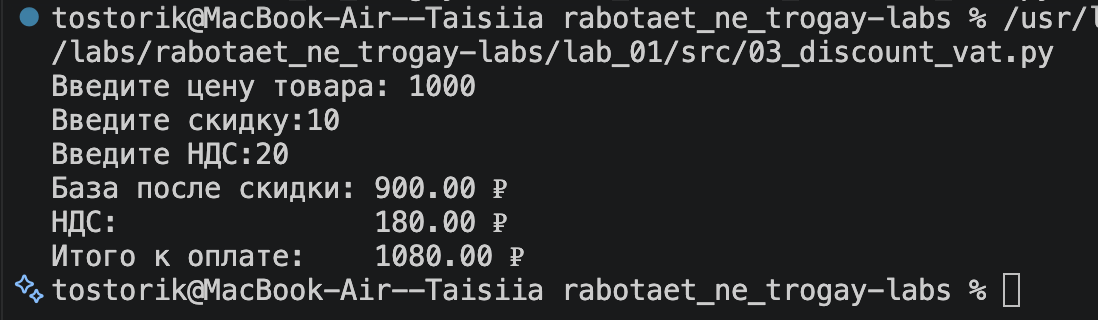
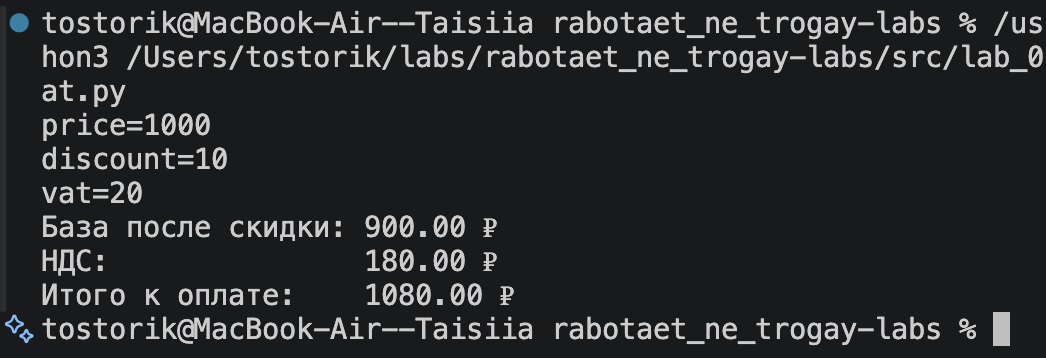
ready to check

Changed region(s): [[0.0, 0.0, 1.0, 0.9688]]

diff --git a/src/lib/functions_02.py b/src/lib/functions_02.py
@@ -1,0 +1,83 @@
+def min_max(nums: list[float | int]) -> tuple[float | int, float | int]:
+    if not (len(nums)):
+        raise ValueError ('пустая строка')
+    else:
+        mx = nums[0]
+        mn = nums[0]
+        for n in nums:
+            if n > mx:
+                mx = n
+            if n < mn:
+                mn = n
+        return mn, mx
+    
+    
+def unique_sorted(nums: list[float | int]) -> list[float | int]:
+    ans = []
+    while len(nums) > 0:
+        mn = nums[0]
+        for n in nums:
+            if n < mn and n not in ans:
+                mn = n
+        ans.append(mn)
+        while mn in nums:
+            nums.remove(mn)
+    return ans
+
+
+def flatten(mat: list[list | tuple]) -> list:
+    if not len(mat):
+        raise ValueError ('пустая строка')
+    else:
+        pr = []
+        for row in mat:
+            if type(row) != list and type(row) != tuple:
+                raise TypeError ('строка не является строкой строк матрицы')
+            pr.extend(row)
+        return pr
+    
+
+def transpose(mat: list[list[float | int]]) -> list[list]:
+    if mat and any(len(row) != len(mat[0]) for row in mat):
+        raise ValueError("рваная матрица")
+    return [list(col) for col in zip(*mat)]
+
+def row_sums(mat: list[list[float | int]]) -> list[float]:
+    if mat and any(len(row) != len(mat[0]) for row in mat):
+        raise ValueError("рваная матрица")
+    return [sum(row) for row in mat]
+
+def col_sums(mat: list[list[float | int]]) -> list[float]:
+    if mat and any(len(row) != len(mat[0]) for row in mat):
+        raise ValueError("рваная матрица")
+    return [sum(col) for col in zip(*mat)]
+
+def format_record(rec: tuple[str, str, float]) -> str:
+    if not isinstance(rec, tuple) or len(rec) != 3:
+        raise TypeError("запись должна быть кортежем (fio, group, gpa)")
+
+    fio, group, gpa = rec
+
+    if not isinstance(fio, str):
+        raise TypeError("fio должно быть строкой")
+    if not isinstance(group, str):
+        raise TypeError("group должна быть строкой")
+    if isinstance(gpa, bool) or not isinstance(gpa, (int, float)):
+        raise TypeError("gpa должен быть числом (int или float)")
+
+    parts = fio.split()
+    if not parts:
+        raise ValueError("пустое ФИО")
+    if len(parts) not in (2, 3):
+        raise ValueError("ФИО должно состоять из 2 или 3 слов")
+    if any(not part.isalpha() for part in parts):
+        raise ValueError("ФИО должно состоять только из букв")
+
+    group = " ".join(group.split())
+    if not group:
+        raise ValueError("пустая группа")
+
+    surname = parts[0].title()
+    initials = "".join(name[0].upper() + "." for name in parts[1:])
+
+    return f"{surname} {initials}, гр. {group}, GPA {gpa:.2f}"

diff --git a/src/lab02/arrays.py b/src/lab02/arrays.py
@@ -59,7 +59,7 @@ def flatten(mat: list[list | tuple]) -> list:
             всех элементов mat.
 
     Raises:
-        ValueError: Если mat — пустой список.
+        ValueError: Если mat — пустой список. 
         TypeError: Если хотя бы один элемент mat не является
             списком или кортежем."""
     if not len(mat):
@@ -74,7 +74,7 @@ def flatten(mat: list[list | tuple]) -> list:
     
     
 print('Тест кейсы:')
-"""print(f'''
+print(f'''
 min_max
 
 {min_max([3, -1, 5, 5, 0])}
@@ -100,7 +100,7 @@ flatten
 {flatten([[1, 2], [3, 4]])}
 {flatten([[1, 2], (3, 4, 5)])}
 {flatten([[1], [], [2, 3]])}
-''')"""
+''')
 
 # Тест кейс который выводит ошибку TypeError
-print(f'{flatten([[1, 2], "ab"])}') 
+#print(f'{flatten([[1, 2], "ab"])}') 

diff --git a/src/lab02/tuples.py b/src/lab02/tuples.py
@@ -55,6 +55,6 @@ format_record
 #print(format_record((" Иванов Ив42 Ив67ович ", "ABB-01", 3.999)))
 
 #--------------------TypeError
-print(format_record(("Магомед Магомедов ", "ABB-01", "3.999")))
+#print(format_record(("Магомед Магомедов ", "ABB-01", "3.999")))
 #print(format_record((["Ойякиви Сергей Александрович"], "BIVT-26-6-1", 3.999)))
 #print(format_record(("Люблюмаму Оченьсильно", ["BIVT-26-6-1"], 3.999)))

diff --git a/src/lab_01/01_greeting.py b/src/lab_01/01_greeting.py
@@ -1,4 +1,4 @@
-name = input('Добавь свое имя:')
-vos = input('Добавь свой возраст:')
+name = input('Имя: ')
+vos = input('Возраст: ')
 now = int(vos) + 1
-print(f'Привет, {name}! Через год тебе будет {now} .')
+print(f'Привет, {name}! Через год тебе будет {now}.')

diff --git a/src/lab_01/03_discount_vat.py b/src/lab_01/03_discount_vat.py
@@ -1,6 +1,6 @@
-price = int(input('Введите цену товара: '))
-discount = int(input('Введите скидку:'))
-vat = int(input('Введите НДС:'))
+price = int(input('price='))
+discount = int(input('discount='))
+vat = int(input('vat='))
 
 base = price * (1 - discount/100)
 vat_amount = base * (vat/100)

diff --git a/src/lab_01/02_sum_avg.py b/src/lab_01/02_sum_avg.py
@@ -1,5 +1,5 @@
-a = float(input('Введите первое число: ').replace(',', '.'))
-b = float(input('Введите второе число:'))
+a = float(input('a: ').replace(',', '.'))
+b = float(input('b: '))
 sum = a + b
 avg = round(sum / 2, 2)
 print(f'{sum=}; {avg=}')

diff --git a/src/lab_01/04_minutes_to_hhmm.py b/src/lab_01/04_minutes_to_hhmm.py
@@ -1,4 +1,4 @@
-min = int(input('Ведите количество минут: '))
+min = int(input('Введите количество минут: '))
 h = min // 60
 m = min % 60
 print(f'Минуты: {min:02d}')

diff --git a/src/lab_01/05_initials_and_len.py b/src/lab_01/05_initials_and_len.py
@@ -8,4 +8,4 @@ for i in range(len(fio)-1):
             
 print(f"ФИО: {fio}")
 print(f'Инициалы: {inic.upper()}.')
-print(f'Длина: {dl}')
+print(f'Длина (символов): {dl}')
